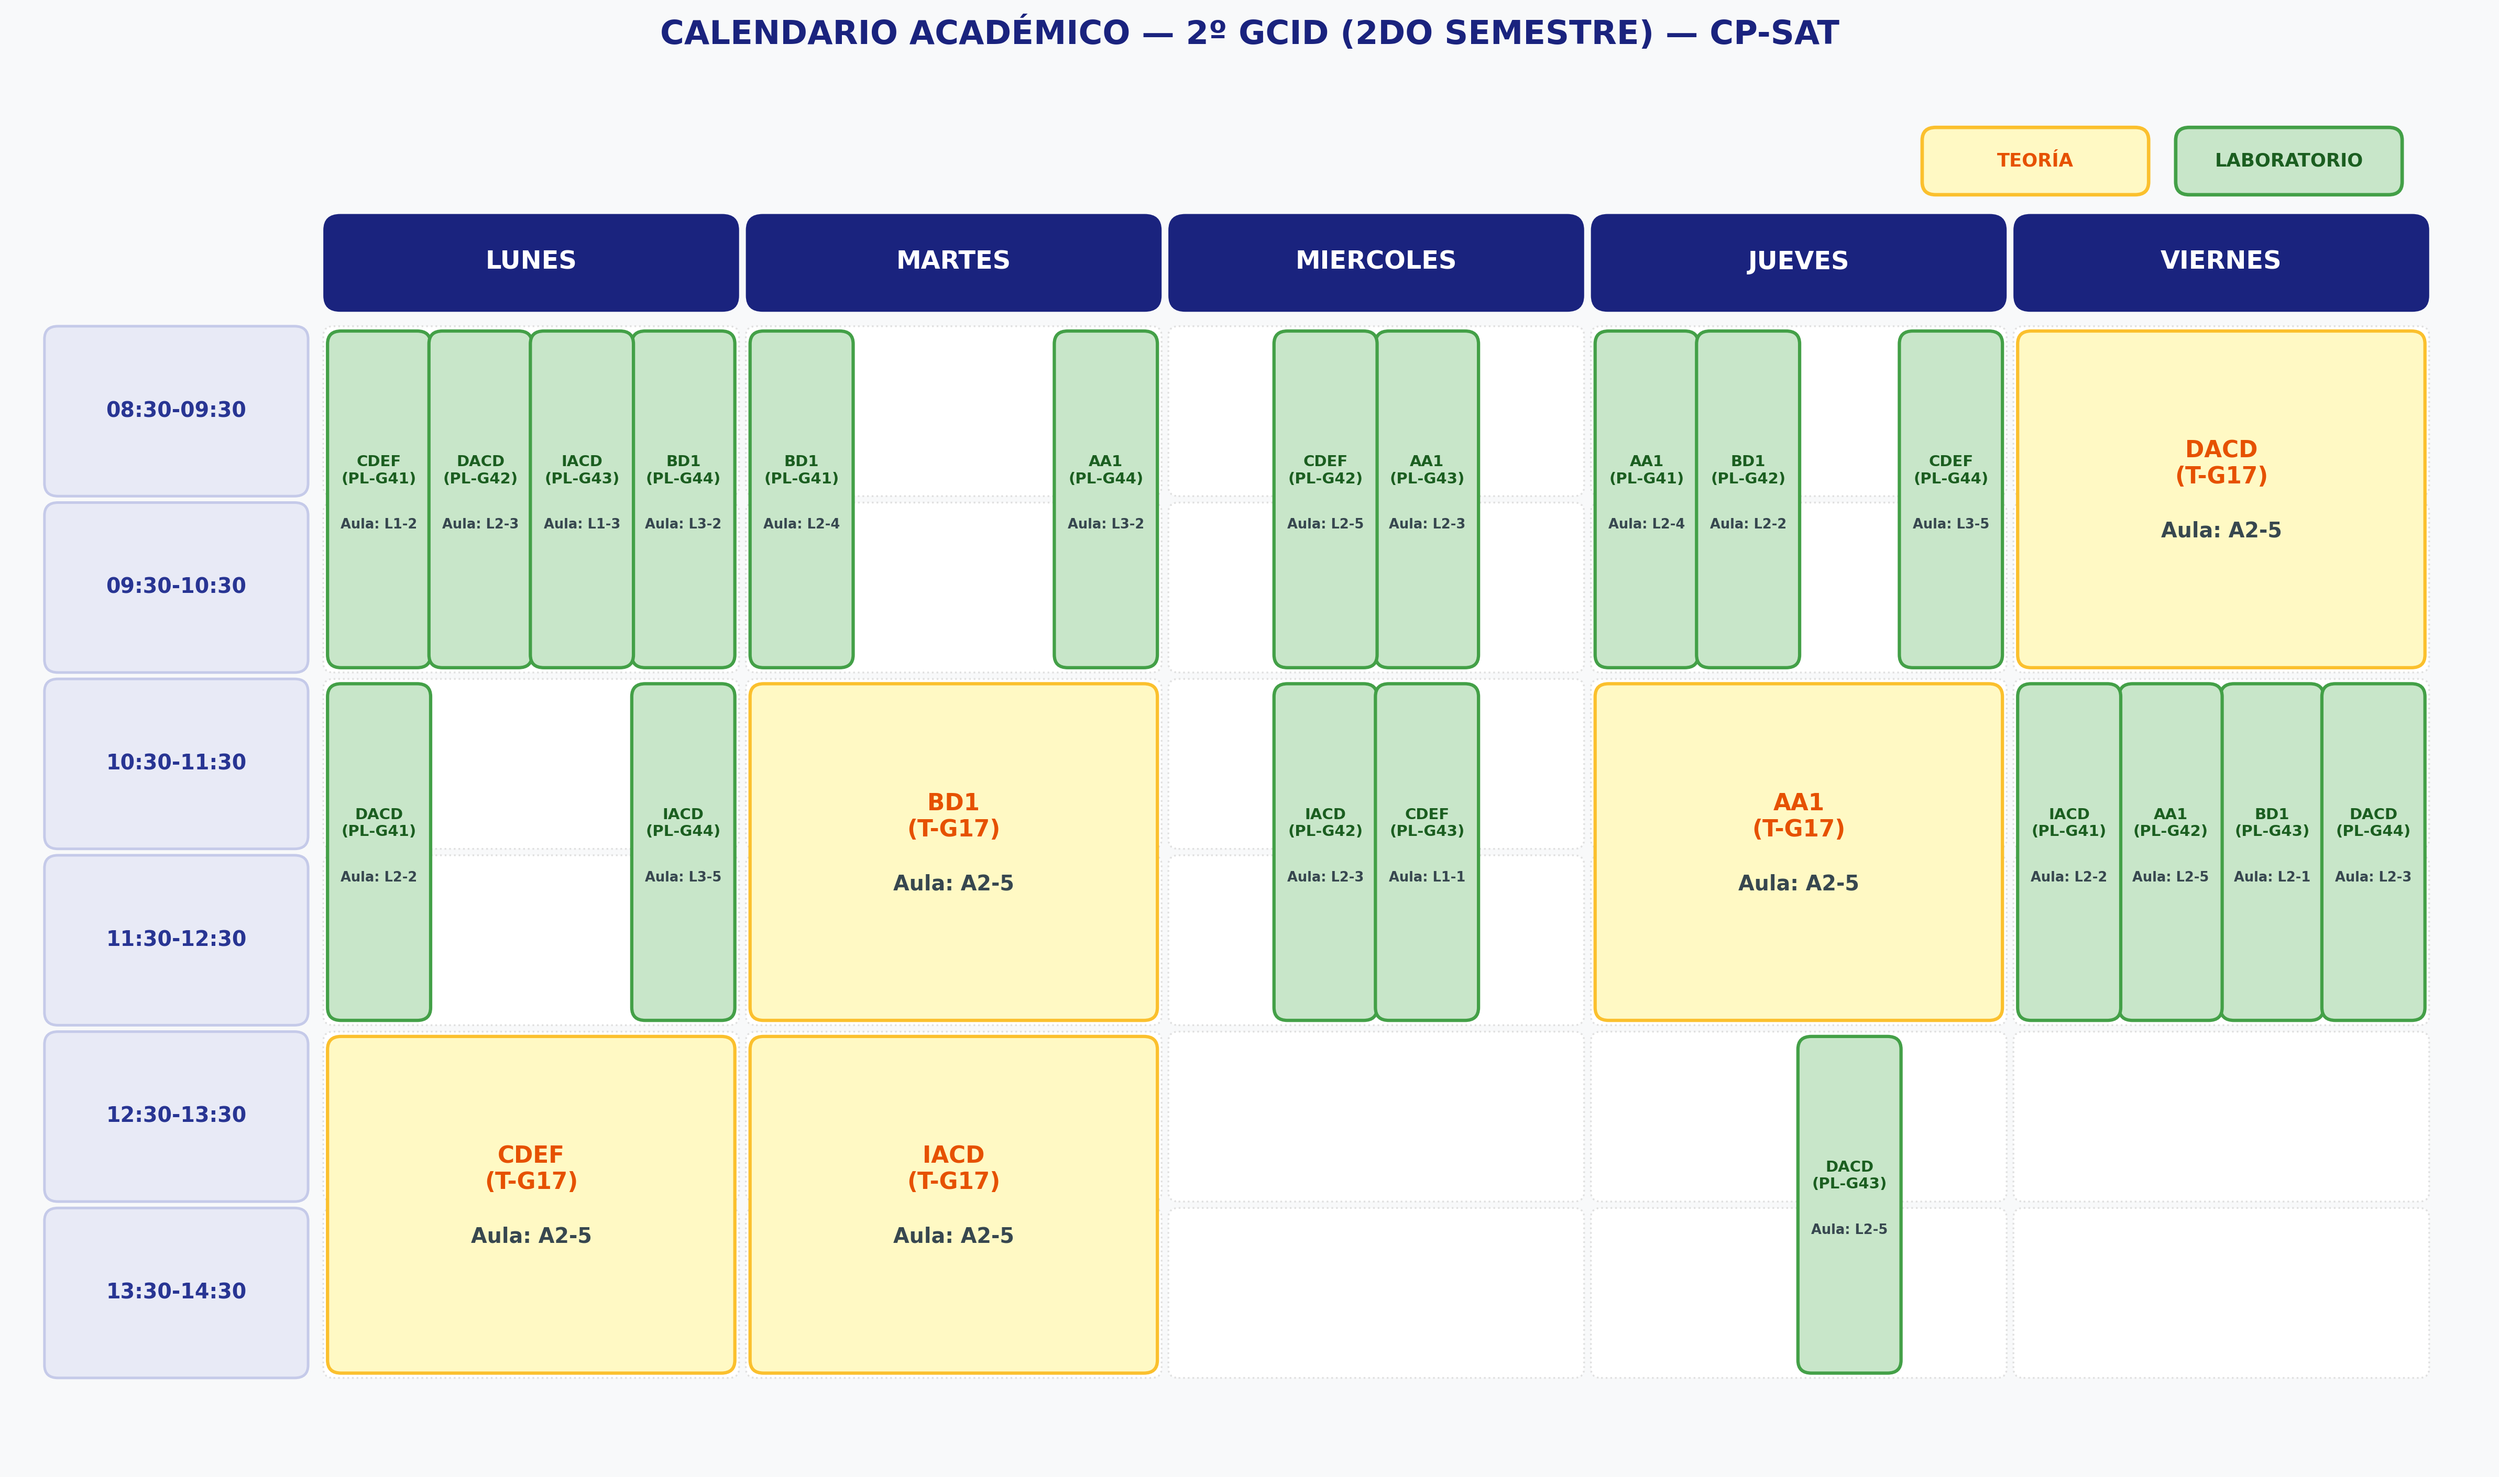
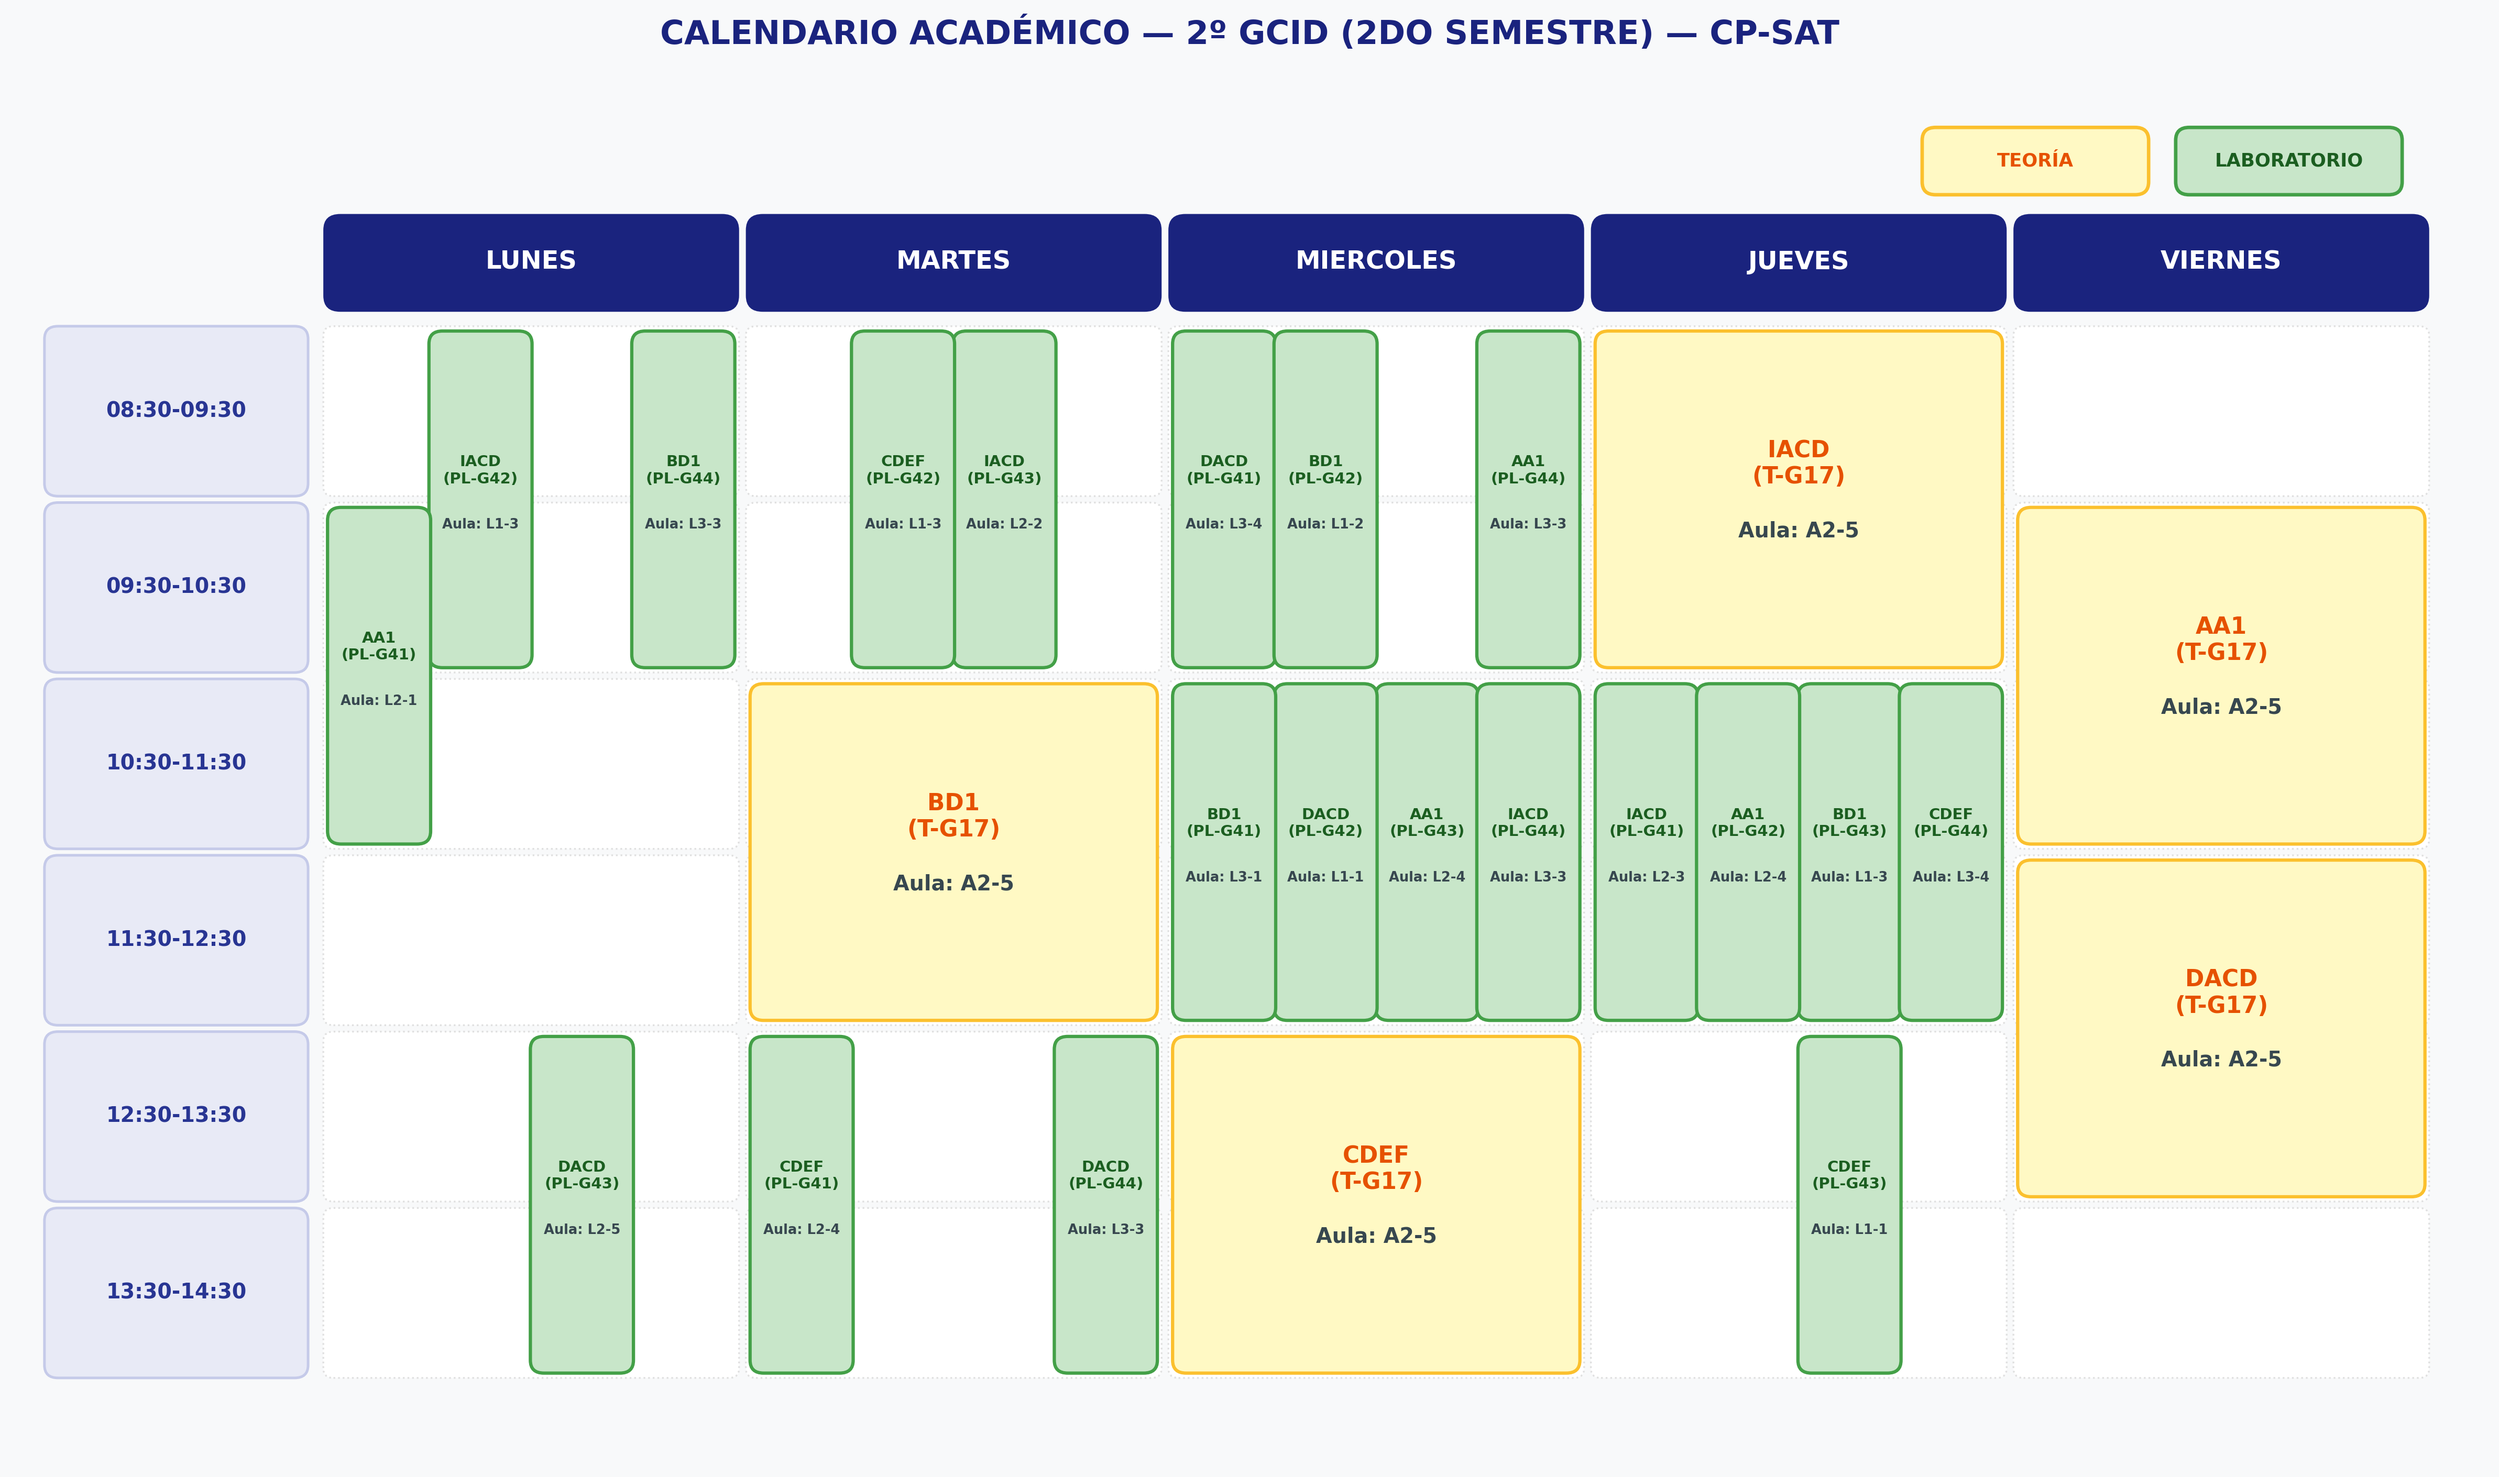
Mejora restricción huecos libres

diff --git a/src/restricciones.py b/src/restricciones.py
@@ -141,23 +141,57 @@ def aplicar_restriccion_aulas(model, df_clases, df_aulas, start_vars, end_vars):
     return aula_assign
 
 
+def obtener_sesiones_por_itinerario(df_curso):
+    """
+    Combina todas las sesiones a las que asiste realmente cada subgrupo de alumnos
+    (Teoría 17 + Práctica Aula 17/18 + Laboratorio 41-44).
+    """
+    df_c = df_curso.copy()
+    df_c["grupo_str"] = df_c["grupo"].astype(str).str.strip()
+    df_c["tipo_str"] = df_c["tipo"].astype(str).str.strip().str.lower()
+    df_c["id_str"] = df_c["id_sesion"].astype(str).str.strip()
+
+    grupos_presentes = set(df_c["grupo_str"].unique())
+    subgrupos = [g for g in ["41", "42", "43", "44"] if g in grupos_presentes]
+    if not subgrupos:
+        subgrupos = list(grupos_presentes)
+
+    itinerarios = {}
+    for sub in subgrupos:
+        if sub in ["41", "42"]:
+            mask = (df_c["grupo_str"] == sub) | (df_c["grupo_str"] == "17")
+        elif sub in ["43", "44"]:
+            mask = (
+                (df_c["grupo_str"] == sub) |
+                (df_c["grupo_str"] == "18") |
+                ((df_c["grupo_str"] == "17") & (df_c["tipo_str"] == "teoria"))
+            )
+        else:
+            mask = (df_c["grupo_str"] == sub)
+
+        itinerarios[sub] = df_c[mask]["id_str"].tolist()
+
+    return itinerarios
+
+
 def aplicar_restriccion_sin_huecos(model, df_clases, start_vars, end_vars, horas_por_dia=6):
     """
-    DURA: Evita horas libres intermedias para un mismo grupo dentro de su curso.
-    Funciona independientemente de si un grupo tiene 2, 3, 4 o más clases en el mismo día.
+    DURA: Evita horas libres intermedias en la jornada real de cada subgrupo de estudiantes.
     """
     for curso in df_clases["curso"].unique():
         df_curso = df_clases[df_clases["curso"] == curso]
-        for grp in df_curso["grupo"].unique():
-            df_grp = df_curso[df_curso["grupo"] == grp]
-            if len(df_grp) <= 1:
+        itinerarios = obtener_sesiones_por_itinerario(df_curso)
+
+        for sub, lista_ids in itinerarios.items():
+            if len(lista_ids) <= 1:
                 continue
 
             sesiones_info = []
-            for _, row in df_grp.iterrows():
-                s_id = str(row["id_sesion"]).strip()
-                dur = int(row["duracion_horas"])
-                dia_var = model.NewIntVar(0, 4, f"dia_grp_{curso}_{grp}_{s_id}")
+            for s_id in lista_ids:
+                dur = int(
+                    df_curso[df_curso["id_sesion"].astype(str).str.strip() == s_id]["duracion_horas"].iloc[0]
+                )
+                dia_var = model.NewIntVar(0, 4, f"dia_it_{curso}_{sub}_{s_id}")
                 model.AddDivisionEquality(dia_var, start_vars[s_id], horas_por_dia)
                 sesiones_info.append((s_id, dur, dia_var))
 
@@ -170,32 +204,31 @@ def aplicar_restriccion_sin_huecos(model, df_clases, start_vars, end_vars, horas
                 ends_dia = []
 
                 for s_id, dur, dia_var in sesiones_info:
-                    en_dia = model.NewBoolVar(f"en_dia_{curso}_{grp}_{s_id}_{d}")
+                    en_dia = model.NewBoolVar(f"en_dia_{curso}_{sub}_{s_id}_{d}")
                     model.Add(dia_var == d).OnlyEnforceIf(en_dia)
                     model.Add(dia_var != d).OnlyEnforceIf(en_dia.Not())
                     en_dia_vars.append((en_dia, dur))
 
-                    s_d = model.NewIntVar(inicio_dia, fin_dia, f"sd_{curso}_{grp}_{s_id}_{d}")
+                    s_d = model.NewIntVar(inicio_dia, fin_dia, f"sd_{curso}_{sub}_{s_id}_{d}")
                     model.Add(s_d == start_vars[s_id]).OnlyEnforceIf(en_dia)
                     model.Add(s_d == fin_dia).OnlyEnforceIf(en_dia.Not())
                     starts_dia.append(s_d)
 
-                    e_d = model.NewIntVar(inicio_dia, fin_dia, f"ed_{curso}_{grp}_{s_id}_{d}")
+                    e_d = model.NewIntVar(inicio_dia, fin_dia, f"ed_{curso}_{sub}_{s_id}_{d}")
                     model.Add(e_d == end_vars[s_id]).OnlyEnforceIf(en_dia)
                     model.Add(e_d == inicio_dia).OnlyEnforceIf(en_dia.Not())
                     ends_dia.append(e_d)
 
                 horas_en_dia = sum(en_dia * dur for en_dia, dur in en_dia_vars)
-                hay_clase = model.NewBoolVar(f"hay_clase_{curso}_{grp}_{d}")
+                hay_clase = model.NewBoolVar(f"hay_clase_{curso}_{sub}_{d}")
                 model.Add(horas_en_dia >= 1).OnlyEnforceIf(hay_clase)
                 model.Add(horas_en_dia == 0).OnlyEnforceIf(hay_clase.Not())
 
-                min_ini = model.NewIntVar(inicio_dia, fin_dia, f"min_ini_{curso}_{grp}_{d}")
-                max_fin = model.NewIntVar(inicio_dia, fin_dia, f"max_fin_{curso}_{grp}_{d}")
+                min_ini = model.NewIntVar(inicio_dia, fin_dia, f"min_ini_{curso}_{sub}_{d}")
+                max_fin = model.NewIntVar(inicio_dia, fin_dia, f"max_fin_{curso}_{sub}_{d}")
                 model.AddMinEquality(min_ini, starts_dia)
                 model.AddMaxEquality(max_fin, ends_dia)
 
-                # Sin huecos: la amplitud total del bloque diario coincide con las horas lectivas
                 model.Add(max_fin - min_ini == horas_en_dia).OnlyEnforceIf(hay_clase)
 
 

diff --git a/src/metaheuristica.py b/src/metaheuristica.py
@@ -106,10 +106,31 @@ def preparar_estructuras(df_clases, df_aulas, cuatrimestre, horas_por_dia=6, tot
             if m1["profesor"] == m2["profesor"] and m1["profesor"].lower() not in ["", "nan", "none"]:
                 pares_profesores.append((id1, id2))
 
+    # Agrupar sesiones por itinerario real de cada subgrupo de alumnos (Teoría + PA + Lab)
     grupos_sesiones = {}
-    for s_id in sesiones:
-        clave = (meta[s_id]["curso"], meta[s_id]["grupo"])
-        grupos_sesiones.setdefault(clave, []).append(s_id)
+    for c in sorted({meta[s_id]["curso"] for s_id in sesiones}):
+        sesiones_c = [s_id for s_id in sesiones if meta[s_id]["curso"] == c]
+        grupos_c = {meta[s_id]["grupo"] for s_id in sesiones_c}
+        subgrupos = [g for g in ["41", "42", "43", "44"] if g in grupos_c]
+        if not subgrupos:
+            subgrupos = list(grupos_c)
+
+        for sub in subgrupos:
+            if sub in ["41", "42"]:
+                grupos_sesiones[(c, sub)] = [
+                    s_id for s_id in sesiones_c
+                    if meta[s_id]["grupo"] in [sub, "17"]
+                ]
+            elif sub in ["43", "44"]:
+                grupos_sesiones[(c, sub)] = [
+                    s_id for s_id in sesiones_c
+                    if meta[s_id]["grupo"] in [sub, "18"]
+                    or (meta[s_id]["grupo"] == "17" and meta[s_id]["tipo"] == "teoria")
+                ]
+            else:
+                grupos_sesiones[(c, sub)] = [
+                    s_id for s_id in sesiones_c if meta[s_id]["grupo"] == sub
+                ]
 
     return sesiones, meta, pares_estudiantes, pares_profesores, grupos_sesiones
 

diff --git a/src/modelo_base.py b/src/modelo_base.py
@@ -109,6 +109,7 @@ def modelo_base(cuatrimestre=1):
 
     # 4. Resolver
     solver = cp_model.CpSolver()
+    solver.parameters.max_time_in_seconds = 60.0
     status = solver.Solve(model)
 
     # 5. Imprimir y exportar resultados
